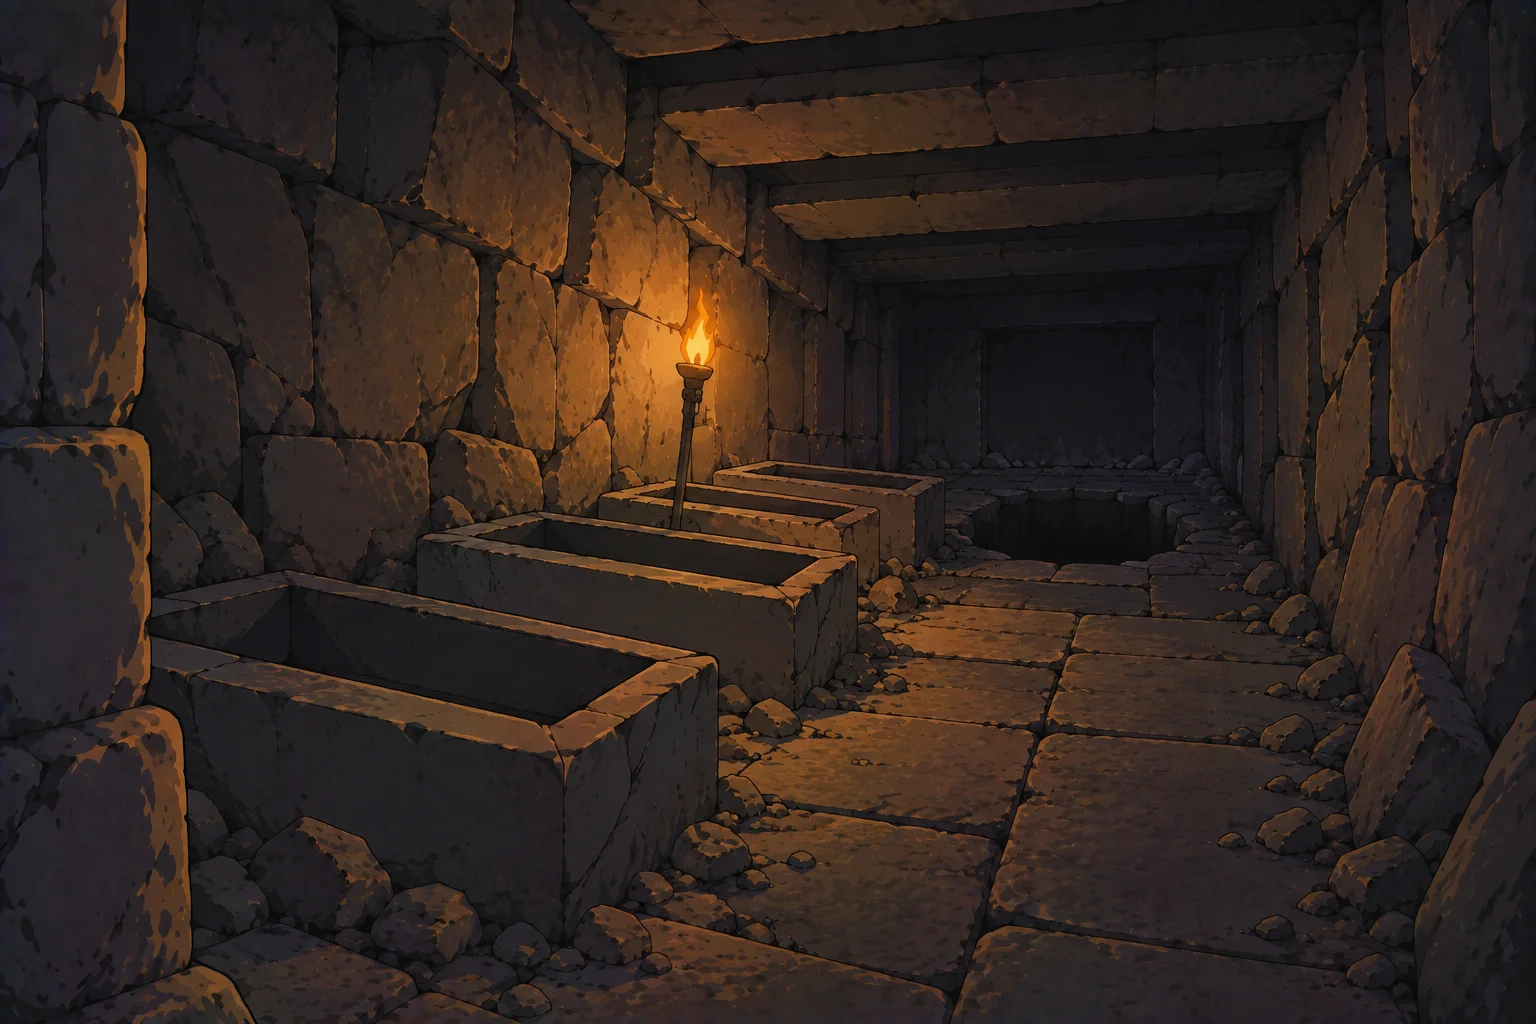
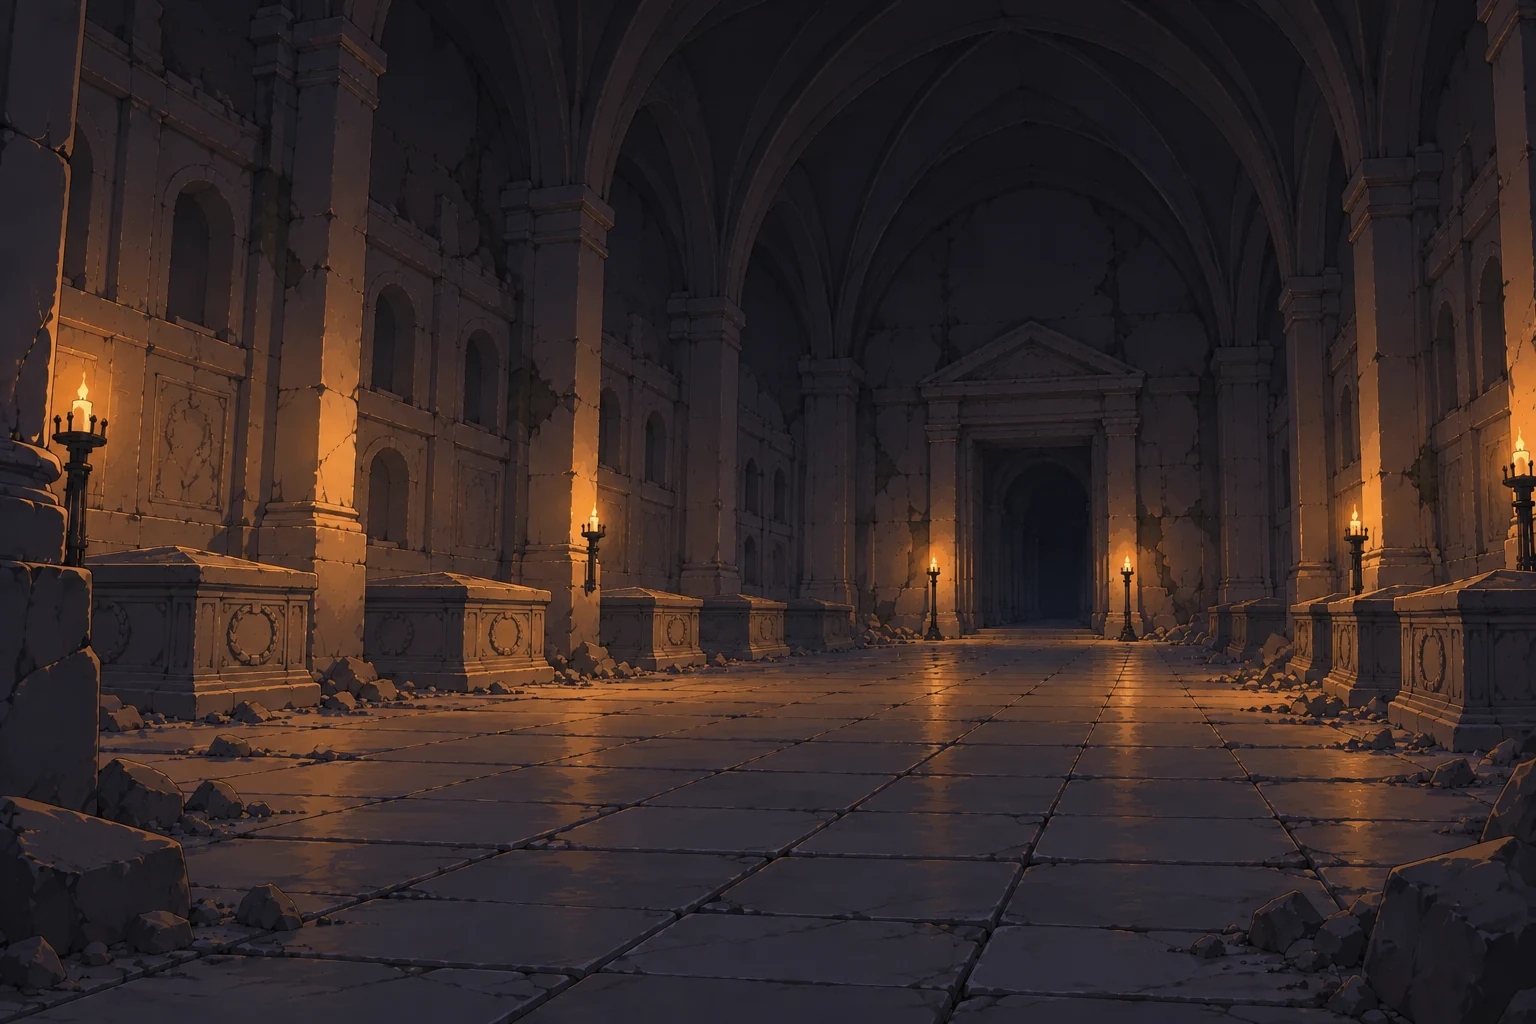
art(古墓): 側墓穴與骨坑改畫成寬廣場地
Ray：「把古墓側墓穴跟骨坑改畫成寬廣的場地」

原本那兩格都是窄構圖（側墓穴是一條走廊、骨坑是一口井）。改成與
tomb_crypta／tomb_charnel 同一個 register 的寬廣大廳 —— 那兩張本來就是
同題材的寬廣版，拿來當畫風參考。

⚠ 通道數照工單規格：兩格的 exits 都是 2 條 ⇒ 畫面上各只有一條看得見的通道
（另一條在鏡頭身後）。兩張都照這個畫。

⚠⚠⚠ 程式端要接：config.js 的 ASSET_VER 加兩列（同名覆蓋，不跳版號玩家的快取裡
還是舊的窄圖，而且畫面上不會有任何錯誤訊息 —— §5 的 -650／-905）：
    'tomb_vaultw':  2,
    'tomb_bonepit': 2,
節點資料一個字都不用動（基底名沒變）。

⚠ 顆粒：平坦區高頻 2.51／2.59，比舊那批高（crypta 0.78、charnel 1.32、舊 vaultw 0.99）。
100% 裁切複核：拱頂與牆面乾淨，多出來的在大片地板的筆觸紋理上，讀起來是畫出來的
石面不是雜訊。依 -930「寧可漏判也不要為了保險整批過 Gemini」先照交，
要不要補一趟去顆粒等 Ray 看畫面。

底層祭壇（含 bgWhen 的點亮差分）生成中，另外交。
舊圖走 tools/recycle.sh，母版進 _originals/background/tomb/。

diff --git a/resources/background/_tomb_fill_worklist.md b/resources/background/_tomb_fill_worklist.md
@@ -199,3 +199,56 @@
 
 ⚠ 交件尺寸建議 **8 欄 × 8 列、每格 256px（＝2048×2048）**；
   工具照 `--cols 8 --rows 8` 切，所以**每一格要等寬等高**。
+
+
+---
+
+# ⭐ 改畫成寬廣場地（ver -1670 後，Ray 交辦）
+
+> Ray：「把古墓側墓穴跟骨坑改畫成寬廣的場地」→「底層祭壇也畫寬，記得啟動差分」
+
+原本那三格都是**窄構圖**（側墓穴是一條走廊、骨坑是一口井）。改成與
+`tomb_crypta`／`tomb_charnel` 同一個register的寬廣大廳。
+
+| 檔名 | 狀態 | 參考圖 |
+|---|---|---|
+| `tomb_vaultw` | ✔ 已交（寬廣石棺大廳） | `tomb_crypta` |
+| `tomb_bonepit` | ✔ 已交（寬廣骨室） | `tomb_charnel` |
+| `tomb_lowaltar_off` | ⏳ 生成中 | **現行的 `tomb_lowaltar_off`**（祭壇造型不能變） |
+| `tomb_lowaltar` | ⏳ 等 `_off` 出來再衍生 | 同上 |
+
+⚠ **通道數照工單規格**：三格的 `exits` 都是 2 條 ⇒ 畫面上**各只有一條**看得見的通道
+（另一條在鏡頭身後）。三張都照這個畫了。
+
+## ⚠⚠⚠ 程式端要接：`config.js` 的 `ASSET_VER` 要加兩列
+
+**同名覆蓋** ⇒ 不跳版號玩家的快取裡還是舊的窄圖，**而且畫面上不會有任何錯誤訊息**（§5 的 -650／-905）：
+
+    'tomb_vaultw':   2,
+    'tomb_bonepit':  2,
+
+⚠ 節點資料**一個字都不用動**（基底名沒變）。
+⚠ `tomb_lowaltar` / `tomb_lowaltar_off` 交件後**也要各加一列**。
+
+## ⚠ 底層祭壇是**差分對**，不是單張
+
+`lowaltar` 節點本來就有 `bgWhen:[{ not:'tomb_altar_on', bg:'tomb_lowaltar_off' }]`：
+
+    tomb_lowaltar_off   祭壇未啟動（旗標 tomb_altar_on 還沒插）
+    tomb_lowaltar       祭壇點亮（台面符文與階梯、地縫的冷光）
+
+⚠⚠ **兩張的構圖必須完全一樣，只差發光** —— 那一段是在**全白之下換圖**的
+（`{ flags:['tomb_altar_on'], bg:'tomb_lowaltar' }`），構圖只要差一點，
+白幕收掉那一刻玩家就會看到畫面跳一格。
+⇒ 所以 `_on` **從新的 `_off` 衍生**，不是各生一張。
+
+## ⚠ 顆粒：這一批比舊那批高，還沒過 Gemini
+
+平坦區高頻（憲法 §5 的量法，**有校準點**）：
+
+    新 vaultw   2.51      新 bonepit  2.59
+    校準 crypta 0.78      校準 charnel 1.32      舊 vaultw 0.99
+
+100% 裁切複核：**拱頂與牆面很乾淨，多出來的在大片地板的筆觸紋理上** ——
+讀起來是畫出來的石面，不是雜訊。依憲法 -930「寧可漏判也不要為了保險整批過 Gemini」
+先**照交**，要不要補一趟去顆粒由 Ray 看畫面決定。
